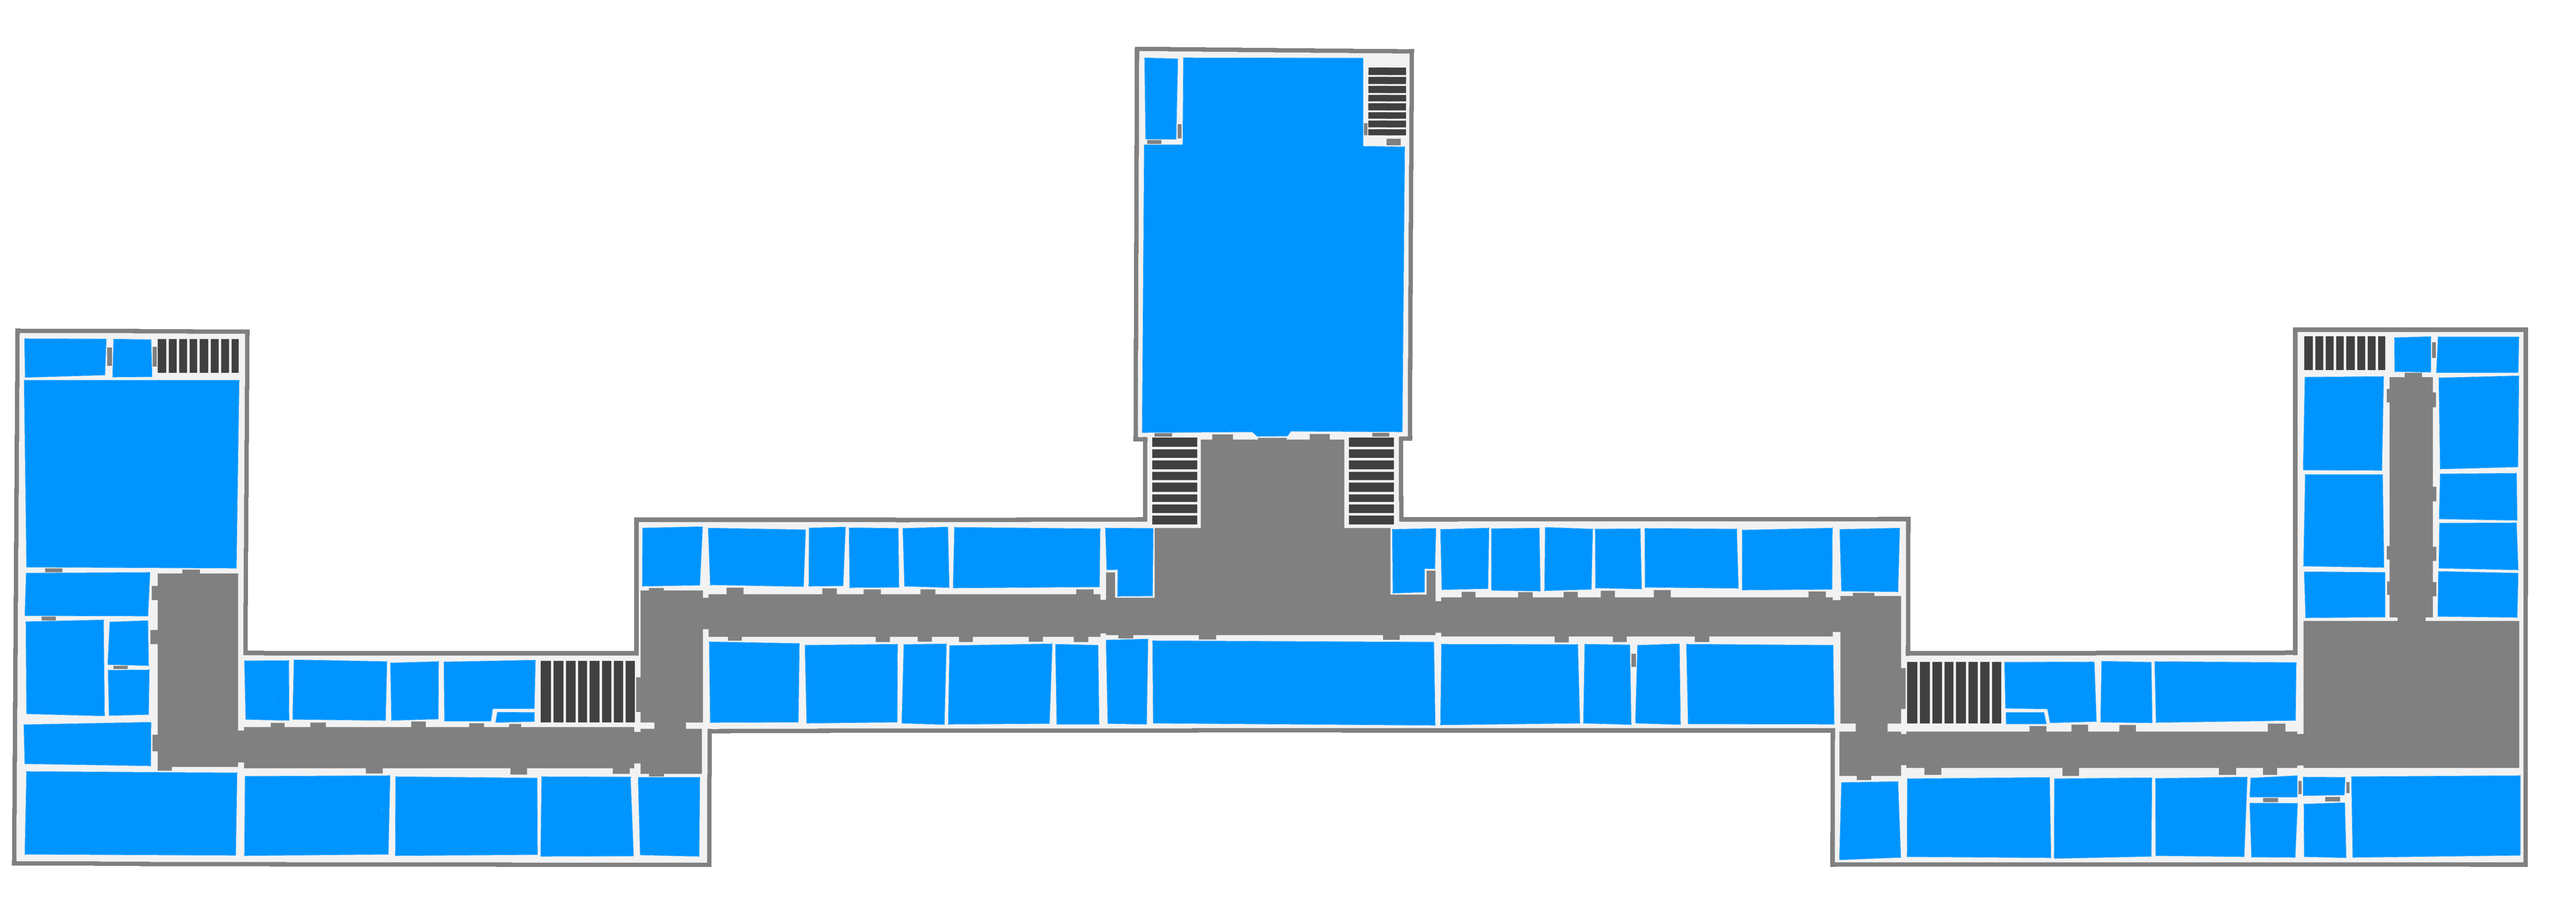
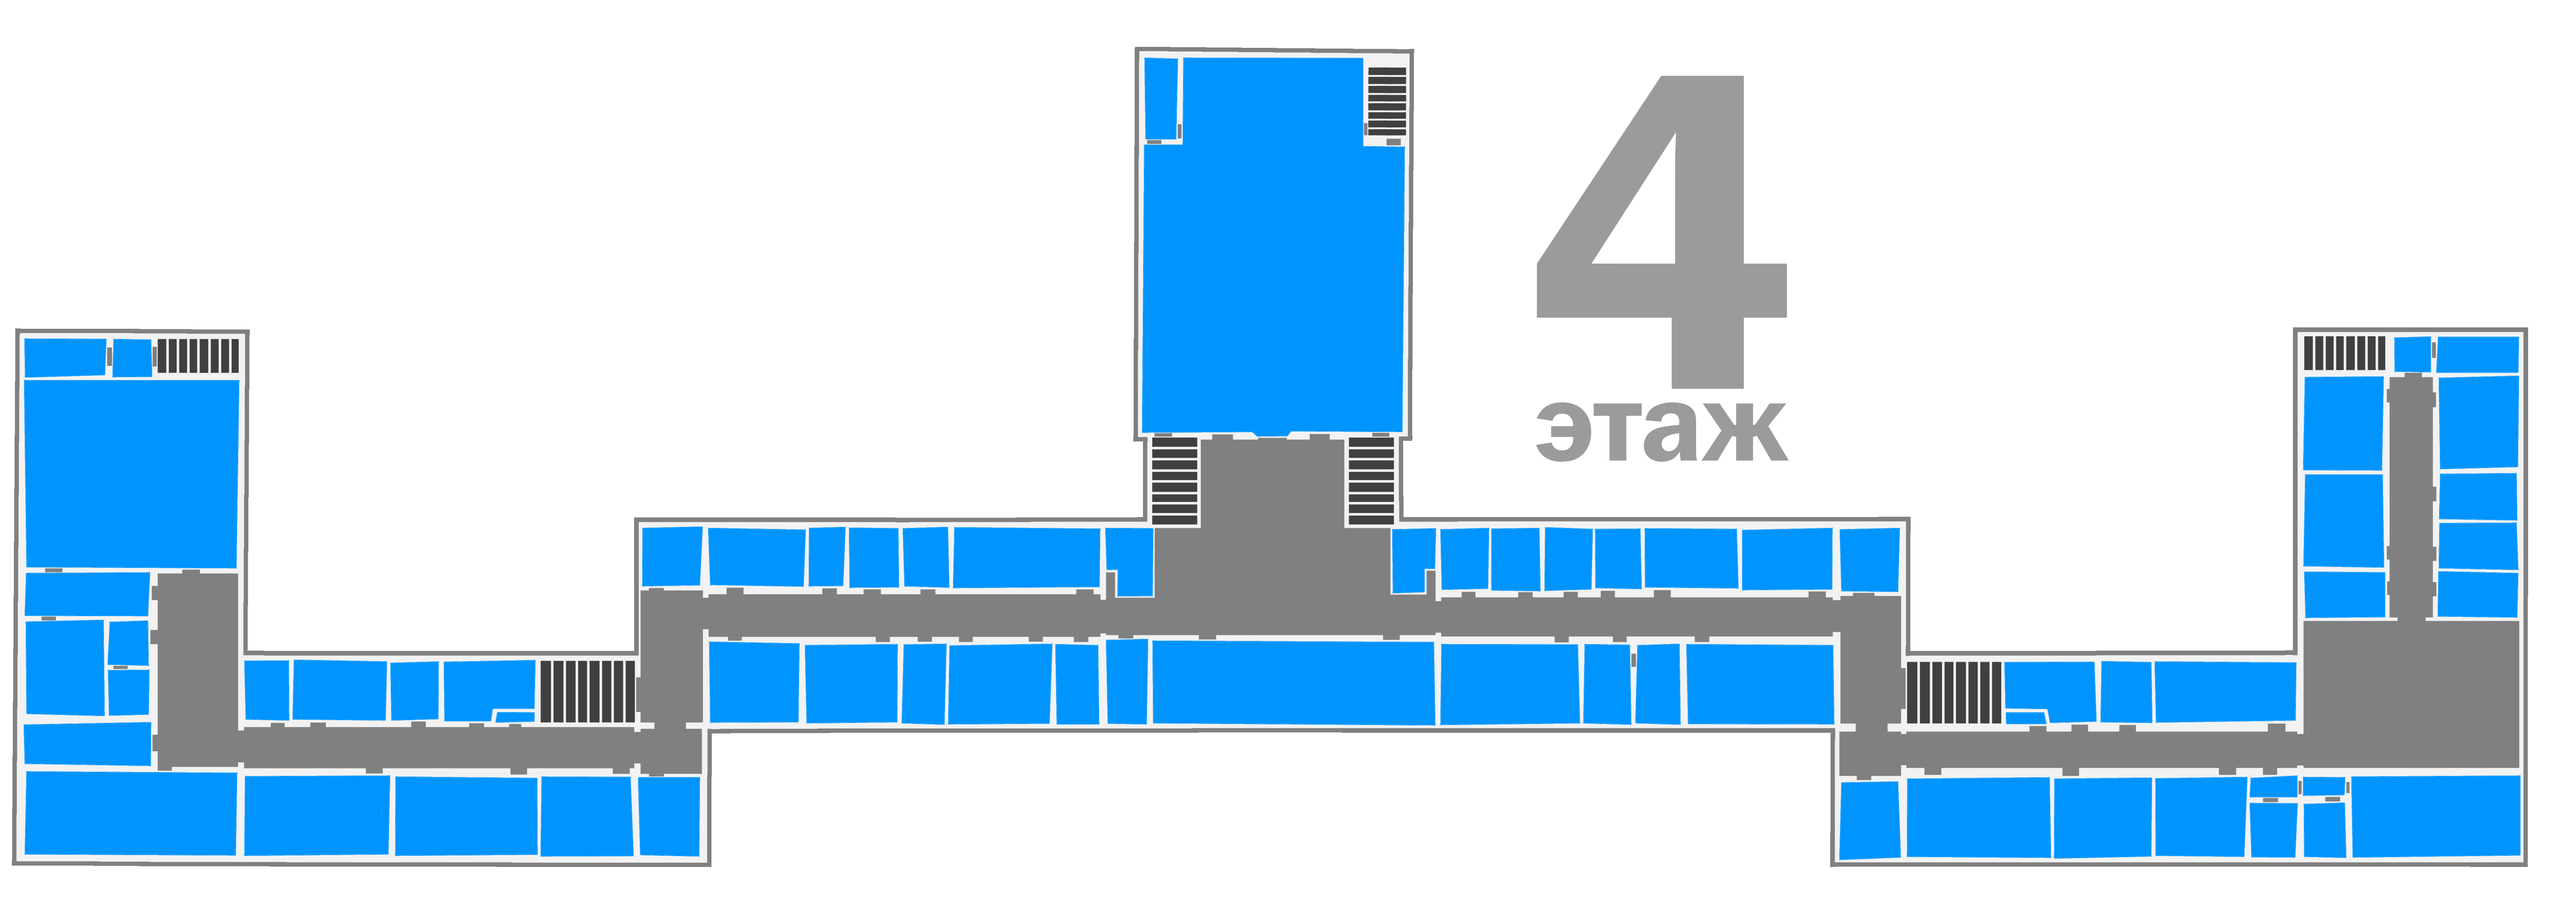
AddTitleFloorOnMap
Добавлены надписи этажей на карту. Также добавлен логотип АлтГТУ в шапку

Changed region(s): [[0.5936, 0.0619, 0.7186, 0.526]]

diff --git a/altstu/src/main/java/com/onlylemi/mapview/MainActivity.java b/altstu/src/main/java/com/onlylemi/mapview/MainActivity.java
@@ -7,6 +7,7 @@ import android.graphics.BitmapFactory;
 import android.graphics.Color;
 import android.graphics.Matrix;
 import android.graphics.PointF;
+import android.graphics.drawable.Drawable;
 import android.os.Parcelable;
 import android.support.v7.app.AppCompatActivity;
 import android.os.Bundle;
@@ -19,6 +20,7 @@ import android.widget.Toast;
 import com.onlylemi.mapview.library.MapView;
 import com.onlylemi.mapview.library.MapViewListener;
 import java.io.IOException;
+import java.io.InputStream;
 import java.util.Random;
 import java.util.Timer;
 import java.util.TimerTask;
@@ -35,6 +37,18 @@ public class MainActivity extends AppCompatActivity {
     protected void onCreate(Bundle savedInstanceState) {
         super.onCreate(savedInstanceState);
         setContentView(R.layout.activity_main);
+
+        //подгрузка лого в actionsbar
+        getSupportActionBar().setDisplayShowHomeEnabled(true);
+        InputStream ims = null;
+        try {
+            ims = getAssets().open("altstu-logo.png");
+        } catch (IOException e) {
+            e.printStackTrace();
+        }
+        Drawable d = Drawable.createFromStream(ims, null);
+        getSupportActionBar().setLogo(d);
+        getSupportActionBar().setDisplayUseLogoEnabled(true);
 
         but1 = (Button) findViewById(R.id.butFloor1); but1.setOnClickListener(oclBtn);
         but2 = (Button) findViewById(R.id.butFloor2); but2.setOnClickListener(oclBtn);
@@ -58,25 +72,26 @@ public class MainActivity extends AppCompatActivity {
             switch (v.getId()) {
                 case R.id.butFloor1:
                     image_name = "map1.png";
-                    ((Button) v).setTextColor(Color.BLACK);
+                    Toast.makeText(getApplicationContext (), "1 этаж", Toast.LENGTH_LONG).show();
                     break;
                 case R.id.butFloor2:
                     image_name = "map2.png";
-                    ((Button) v).setTextColor(Color.BLACK);
+                    Toast.makeText(getApplicationContext (), "2 этаж", Toast.LENGTH_LONG).show();
                     break;
                 case R.id.butFloor3:
                     image_name = "map3.png";
-                    ((Button) v).setTextColor(Color.BLACK);
+                    Toast.makeText(getApplicationContext (), "3 этаж", Toast.LENGTH_LONG).show();
                     break;
                 case R.id.butFloor4:
                     image_name = "map4.png";
-                    ((Button) v).setTextColor(Color.BLACK);
+                    Toast.makeText(getApplicationContext (), "4 этаж", Toast.LENGTH_LONG).show();
                     break;
                 case R.id.butFloor5:
                     image_name = "map5.png";
-                    ((Button) v).setTextColor(Color.BLACK);
+                    Toast.makeText(getApplicationContext (), "5 этаж", Toast.LENGTH_LONG).show();
                     break;
             }
+            ((Button) v).setTextColor(Color.BLACK);
             reloadMap();
         }
     };
